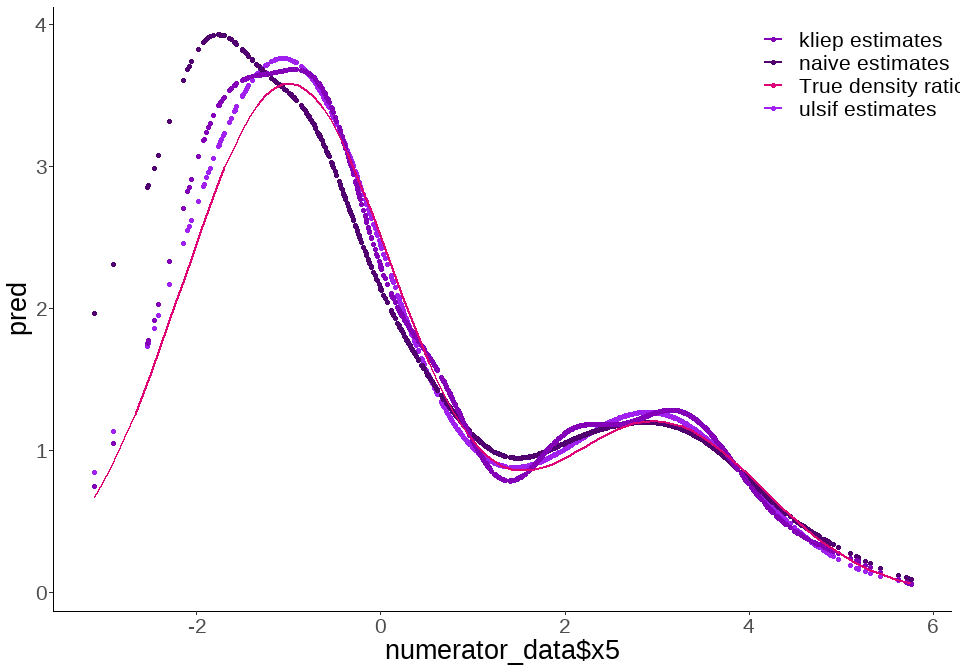
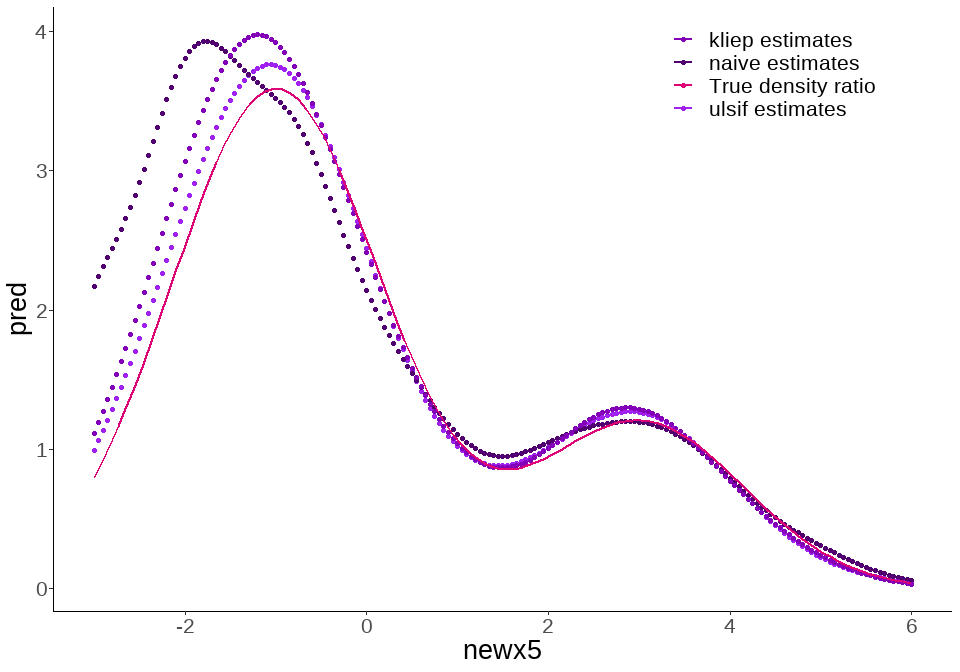
Finalize readme

diff --git a/README.md b/README.md
@@ -9,27 +9,44 @@
 [![Lifecycle:
 experimental](https://img.shields.io/badge/lifecycle-experimental-orange.svg)](https://lifecycle.r-lib.org/articles/stages.html#experimental)
 [![CRAN
-status](https://www.r-pkg.org/badges/version/densityratio)](https://CRAN.R-project.org/package=densityratio)
+status](https://www.r-pkg.org/badges/version/densityratio.png)](https://CRAN.R-project.org/package=densityratio)
+[![DOI](https://zenodo.org/badge/613441108.svg)](https://zenodo.org/badge/latestdoi/613441108)
 
 <!-- badges: end -->
 
 ## Overview
 
-This is an `R`-package for distribution comparison through density ratio
-estimation. The package provides functionality to estimate the density
-ratio $$r(x) = \frac{p_\text{nu}(x)}{p_{\text{de}}(x)}$$ directly,
-without going through density estimation of the numerator and
-denominator density separately. Density ratio estimation serves many
-purposes, for example, prediction, outlier detection, change-point
-detection in time-series, importance weighting under domain adaptation
-(i.e., sample selection bias) and evaluation of synthetic data utility.
-The key idea is that differences between data distributions can be
-captured in their density ratio, which is estimated over the entire
-multivariate space of the data. Subsequently, the density ratio values
-can be used to summarize the dissimilarity between the two distributions
-in a discrepancy measure.
+This package provides functionality to directly estimate a density ratio
+$$r(x) = \frac{p_\text{nu}(x)}{p_{\text{de}}(x)},$$ without estimating
+the numerator and denominator density separately. Density ratio
+estimation serves many purposes, for example, prediction, outlier
+detection, change-point detection in time-series, importance weighting
+under domain adaptation (i.e., sample selection bias) and evaluation of
+synthetic data utility. The key idea is that differences between data
+distributions can be captured in their density ratio, which is estimated
+over the entire multivariate space of the data. Subsequently, the
+density ratio values can be used to summarize the dissimilarity between
+the two distributions in a discrepancy measure.
 
-<img src="man/figures/README-unnamed-chunk-3-1.png" width="50%" style="display: block; margin: auto;" />
+<img src="man/figures/README-unnamed-chunk-3-1.png" style="width:50.0%"
+data-fig-align="center" />
+
+### Features
+
+- **Fast**: Computationally intensive code is executed in `C++` using
+  `Rcpp` and `RcppArmadillo`.
+- **Automatic**: Good default hyperparameters that can be optimized in
+  cross-validation (we do recommend understanding those parameters
+  before using `densityratio` in practice).
+- **Complete**: Several density ratio estimation methods, such as
+  unconstrained least-squares importance fitting (`ulsif()`),
+  Kullback-Leibler importance estimation procedure (`kliep()`), ratio of
+  estimated densities (`naive()`), ratio of estimated densities after
+  dimension reduction (`naivesubspace()`), and least-squares
+  heterodistributional subspace search (`lhss()`; experimental).
+- **User-friendly**: Simple user interface, default `predict()`,
+  `print()` and `summary()` functions for all density ratio estimation
+  methods; built-in data sets for quick testing.
 
 ## Installation
 
@@ -44,57 +61,68 @@ devtools::install_github("thomvolker/densityratio")
 ## Usage
 
 The package contains several functions to estimate the density ratio
-between the numerator data and the denominator data.
+between the numerator data and the denominator data. To illustrate the
+functionality, we make use of the in-built simulated data sets
+`numerator_data` and `denominator_data`, that both consist of the same
+five variables.
+
+### Minimal example
 
 ``` r
 library(densityratio)
 
+head(numerator_data)
+#> # A tibble: 6 × 5
+#>   x1    x2         x3     x4     x5
+#>   <fct> <fct>   <dbl>  <dbl>  <dbl>
+#> 1 A     G1    -0.0299  0.967 -1.26 
+#> 2 C     G1     2.29   -0.475  2.40 
+#> 3 A     G1     1.37    0.577 -0.172
+#> 4 B     G2     1.44   -0.193 -0.708
+#> 5 A     G1     1.01    2.23   2.01 
+#> 6 C     G2     1.83    0.762  3.71
+
 set.seed(1)
 
-# use unconstrained least-squares importance fitting (ulsif) to estimate the 
-# density ratio
-fit  <- ulsif(numerator_data$x5, 
-              denominator_data$x5, 
-              nsigma = 5, 
-              nlambda = 5)
+fit  <- ulsif(
+  df_numerator = numerator_data$x5, 
+  df_denominator = denominator_data$x5, 
+  nsigma = 5, 
+  nlambda = 5
+)
 
 class(fit)
 #> [1] "ulsif"
 ```
 
-The `ulsif`-object contains the (hyper-)parameters used in estimating
-the density ratio, such as the centers used in constructing the Gaussian
-kernels (`fit$centers`), the different bandwidth parameters
-(`fit$sigma`) and the regularization parameters (`fit$lambda`). Using
-these variables, we can obtain the actual density ratio using
-`predict()`.
+We can ask for the `summary()` of the estimated density ratio object,
+that contains the optimal kernel weights (optimized using
+cross-validation) and a measure of discrepancy between the numerator and
+denominator densities.
 
 ``` r
-# obtain predictions for the numerator samples
-pred <- predict(fit)
-
-ggplot() +
-  geom_point(aes(x = numerator_data$x5, 
-                 y = pred, 
-                 col = "ulsif estimates")) +
-  stat_function(aes(col = "True density ratio"), 
-                fun = dratio, args = list(p = 0.4, dif = 3, mu = 3, sd = 2),
-                size = 1) +
-  theme_classic() +
-  scale_color_manual(name = NULL, values = c("#de0277", "purple")) +
-  theme(legend.position = c(0.9, 0.9),
-        text = element_text(size = 20))
+summary(fit)
+#> 
+#> Call:
+#> ulsif(df_numerator = numerator_data$x5, df_denominator = denominator_data$x5,     nsigma = 5, nlambda = 5)
+#> 
+#> Kernel Information:
+#>   Kernel type: Gaussian with L2 norm distances
+#>   Number of kernels: 200
+#>   Optimal sigma: 0.8951539
+#>   Optimal lambda: 0.03162278
+#>   Optimal kernel weights (loocv): num [1:200] 0.021815 0.007418 0.018196 0.015729 -0.000559 ...
+#>  
+#> Pearson divergence between P(nu) and P(de): 0.2925
+#> For a two-sample homogeneity test, use 'summary(x, test = TRUE)'.
 ```
 
-<img src="man/figures/README-plot-univ-1.png" width="50%" style="display: block; margin: auto;" />
-
-Additionally, it is possible to perform a two-sample homogeneity test
-for the numerator and denominator samples, which allows to formally
-evaluate whether the numerator and denominator densities differ
-significantly from each other.
+To formally evaluate whether the numerator and denominator densities
+differ significantly, you can perform a two-sample homogeneity test as
+follows.
 
 ``` r
-summary(fit, parallel = TRUE)
+summary(fit, test = TRUE)
 #> 
 #> Call:
 #> ulsif(df_numerator = numerator_data$x5, df_denominator = denominator_data$x5,     nsigma = 5, nlambda = 5)
@@ -110,16 +138,48 @@ summary(fit, parallel = TRUE)
 #> Pr(P(nu)=P(de)) < .001
 ```
 
-As you might have expected, the probability that numerator and
-denominator samples share a common data generating mechanism is very
-small.
+The probability that numerator and denominator samples share a common
+data generating mechanism is very small.
+
+The `ulsif`-object also contains the (hyper-)parameters used in
+estimating the density ratio, such as the centers used in constructing
+the Gaussian kernels (`fit$centers`), the different bandwidth parameters
+(`fit$sigma`) and the regularization parameters (`fit$lambda`). Using
+these variables, we can obtain the estimated density ratio using
+`predict()`.
+
+``` r
+# obtain predictions for the numerator samples
+
+newx5 <- seq(from = -3, to = 6, by = 0.05)
+pred  <- predict(fit, newdata = newx5)
+
+ggplot() +
+  geom_point(aes(x = newx5, y = pred, col = "ulsif estimates")) +
+  stat_function(mapping = aes(col = "True density ratio"), 
+                fun = dratio, 
+                args = list(p = 0.4, dif = 3, mu = 3, sd = 2),
+                size = 1) +
+  theme_classic() +
+  scale_color_manual(name = NULL, values = c("#de0277", "purple")) +
+  theme(legend.position = c(0.8, 0.9),
+        text = element_text(size = 20))
+```
+
+<img src="man/figures/README-plot-univ-1.png" style="width:50.0%"
+data-fig-align="center" />
+
+### Categorical data
 
 Currently, none of the functions in the `densityratio` package accept
 non-numeric variables (e.g., having categorical variables will return an
 error message).
 
 ``` r
-ulsif(numerator_data$x1, denominator_data$x2)
+ulsif(
+  df_numerator = numerator_data$x1, 
+  df_denominator = denominator_data$x2
+)
 #> Error in check.dataform(nu, de): Currently only numeric data is supported.
 ```
 
@@ -129,8 +189,8 @@ different data sets (although there is some regularization applied).
 
 ``` r
 fit_cat <- ulsif(
-  numerator_data$x1 |> as.numeric(),
-  denominator_data$x1 |> as.numeric()
+  df_numerator = numerator_data$x1 |> as.numeric(),
+  df_denominator = denominator_data$x1 |> as.numeric()
 )
 #> Warning in check.sigma(nsigma, sigma_quantile, sigma, dist_nu): There are duplicate values in 'sigma', only the unique values are used.
 
@@ -139,9 +199,9 @@ aggregate(
   FUN = unique
 )
 #>   numerator_data$x1 predict(fit_cat)
-#> 1                 A        1.3722877
-#> 2                 B        1.3631192
-#> 3                 C        0.6286542
+#> 1                 A        1.3748725
+#> 2                 B        1.3554649
+#> 3                 C        0.6299005
 
 
 table(numerator_data$x1) / table(denominator_data$x1)
@@ -150,17 +210,19 @@ table(numerator_data$x1) / table(denominator_data$x1)
 #> 1.3928571 1.4612069 0.6007752
 ```
 
+### Full data example
+
 After transforming all variables to numeric variables, it is possible to
 calculate the density ratio over the entire multivariate space of the
 data.
 
 ``` r
 fit_all <- ulsif(
-  numerator_data |> lapply(as.numeric) |> data.frame(),
-  denominator_data |> lapply(as.numeric) |> data.frame()
+  df_numerator = numerator_data |> lapply(as.numeric) |> data.frame(),
+  df_denominator = denominator_data |> lapply(as.numeric) |> data.frame()
 )
 
-summary(fit_all, parallel = TRUE, progressbar = TRUE)
+summary(fit_all, test = TRUE, parallel = TRUE)
 #> 
 #> Call:
 #> ulsif(df_numerator = data.frame(lapply(numerator_data, as.numeric)),     df_denominator = data.frame(lapply(denominator_data, as.numeric)))
@@ -168,13 +230,15 @@ summary(fit_all, parallel = TRUE, progressbar = TRUE)
 #> Kernel Information:
 #>   Kernel type: Gaussian with L2 norm distances
 #>   Number of kernels: 200
-#>   Optimal sigma: 1.483177
-#>   Optimal lambda: 0.1623777
-#>   Optimal kernel weights (loocv): num [1:200] 0.2139 0.0156 0.2206 0.1761 0.015 ...
+#>   Optimal sigma: 1.459182
+#>   Optimal lambda: 0.3359818
+#>   Optimal kernel weights (loocv): num [1:200] -0.0314 0.1168 0.0739 0.0966 0.0212 ...
 #>  
-#> Pearson divergence between P(nu) and P(de): 0.64
+#> Pearson divergence between P(nu) and P(de): 0.5015
 #> Pr(P(nu)=P(de)) < .001
 ```
+
+### Other density ratio estimation functions
 
 Besides `ulsif()`, the package contains several other functions to
 estimate a density ratio.
@@ -186,29 +250,34 @@ estimate a density ratio.
   <!-- * `kmm()` estimates the density ratio for the denominator sample points only through kernel mean matching.  -->
 
 ``` r
-fit_naive <- naive(numerator_data$x5, denominator_data$x5)
-fit_kliep <- kliep(numerator_data$x5, denominator_data$x5)
+fit_naive <- naive(
+  df_numerator = numerator_data$x5, 
+  df_denominator = denominator_data$x5
+)
 
-pred_naive <- predict(fit_naive)
-pred_kliep <- predict(fit_kliep)
+fit_kliep <- kliep(
+  df_numerator = numerator_data$x5, 
+  df_denominator = denominator_data$x5
+)
 
-ggplot(data = NULL, aes(x = numerator_data$x5)) +
-  geom_point(aes(y = pred, 
-                 col = "ulsif estimates")) +
-  geom_point(aes(y = pred_naive,
-                 col = "naive estimates")) +
-  geom_point(aes(y = pred_kliep,
-                 col = "kliep estimates")) +
+pred_naive <- predict(fit_naive, newdata = newx5)
+pred_kliep <- predict(fit_kliep, newdata = newx5)
+
+ggplot(data = NULL, aes(x = newx5)) +
+  geom_point(aes(y = pred, col = "ulsif estimates")) +
+  geom_point(aes(y = pred_naive, col = "naive estimates")) +
+  geom_point(aes(y = pred_kliep, col = "kliep estimates")) +
   stat_function(aes(x = NULL, col = "True density ratio"), 
                 fun = dratio, args = list(p = 0.4, dif = 3, mu = 3, sd = 2),
                 size = 1) +
   theme_classic() +
   scale_color_manual(name = NULL, values = c("#8400b8", "#510070","#de0277", "purple")) +
-  theme(legend.position = c(0.9, 0.9),
+  theme(legend.position = c(0.8, 0.9),
         text = element_text(size = 20))
 ```
 
-<img src="man/figures/README-plot-methods-1.png" width="50%" style="display: block; margin: auto;" />
+<img src="man/figures/README-plot-methods-1.png" style="width:50.0%"
+data-fig-align="center" />
 
 Although all methods perform reasonable and approximate the true density
 ratio relatively well, `ulsif()` comes closes to the true density ratio
@@ -235,3 +304,8 @@ Issues](https://github.com/thomvolker/densityratio/issues).
   synthetic data: Volker, De Wolf and Van Kesteren (2023). [Assessing
   the utility of synthetic data: A density ratio
   perspective](https://unece.org/statistics/documents/2023/08/working-documents/assessing-utility-synthetic-data-density-ratio)
+
+## How to cite
+
+Volker, T.B. (2023). densityratio: Distribution comparison through
+density ratio estimation. <https://doi.org/10.5281/zenodo.8307819>
